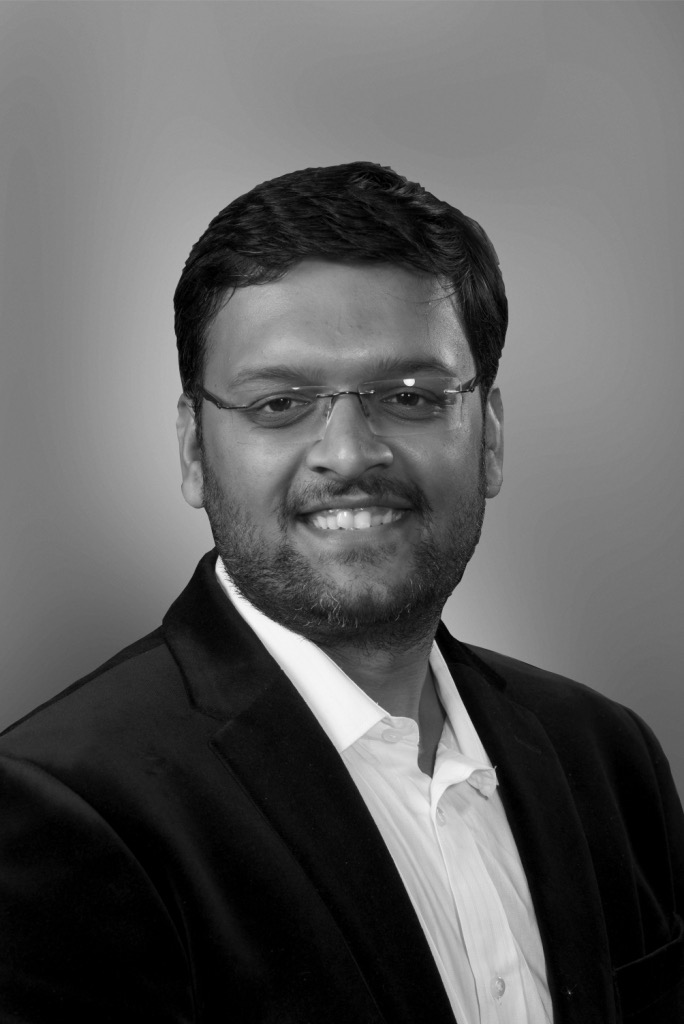
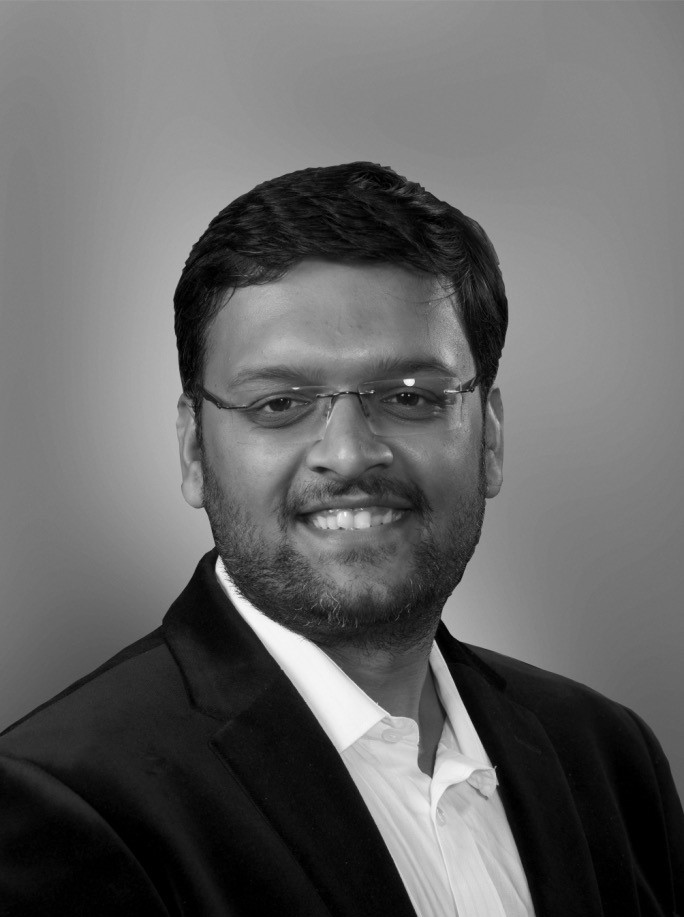
about us fixed

diff --git a/src/Pages/About.jsx b/src/Pages/About.jsx
@@ -1,30 +1,26 @@
 import React from "react";
 import Navbar from "../Component/Navbar";
 import Footer from "../Component/Footer";
-import founder1 from "../Images/founder1.jpeg"
-import founder2 from "../Images/founder2.jpeg"
-import founder3 from "../Images/founder3.jpeg"
-
+import founder1 from "../Images/founder1.jpeg";
+import founder2 from "../Images/founder2.jpeg";
+import founder3 from "../Images/founder3.jpeg";
 
 const About = () => {
   const people = [
     {
       name: "Prateek Khare",
       role: "Director",
-      imageUrl:
-        founder1,
+      imageUrl: founder1,
     },
     {
       name: "Leonard Krasner",
       role: "Director",
-      imageUrl:
-      founder3,
+      imageUrl: founder3,
     },
     {
       name: "Deviprasad Kalaikar",
       role: "Director",
-      imageUrl:
-      founder2,
+      imageUrl: founder2,
     },
   ];
 
@@ -41,23 +37,29 @@ const About = () => {
               We at Exemplar, are a group of high end designers and interior
               architects who are constantly upgrading and improving the industry
               design standards in terms of beauty, space optimisation and
-              functionality. We are the world’s first organisation that designs
-              space using multiple psychological researches to optimise the
-              productivity output of the end user. We are the fastest growing
-              interior turnkey solution providers of the country and are
-              dedicated to provide our customers the best service, quality and
-              ensure that the design is given utmost attention to cater to every
-              client and their space needs. It is our constant goal to bridge
-              the gap of the industry, hence our dedicated project management
-              team is focused at maintaining a high level of technical process
-              adherence and ensuring timely delivery. We focus on effective risk
+              functionality.
+            </p>
+            <p className="mt-8 text-lg leading-8 text-gray-600  text-justify">
+              We are the world’s first organisation that designs space using
+              multiple psychological researches to optimise the productivity
+              output of the end user. We are the fastest growing interior
+              turnkey solution providers of the country and are dedicated to
+              provide our customers the best service, quality and ensure that
+              the design is given utmost attention to cater to every client and
+              their space needs. 
+            </p>
+            <p className="mt-8 text-lg leading-8 text-gray-600  text-justify">
+            It is our constant goal to bridge the gap of
+              the industry, hence our dedicated project management team is
+              focused at maintaining a high level of technical process adherence
+              and ensuring timely delivery. We focus on effective risk
               assessments and meticulous reporting on all the projects ensuring
               high quality serviceability and customer experience. We have the
               skills and knowledge to help you reach your design objectives,
               whether you want to change the aesthetic of your home, workplace,
               or a commercial facility. At Exemplar, we are committed to giving
               our clients the best service and creative solutions that go above
-              and beyond what they anticipate. 
+              and beyond what they anticipate.
             </p>
           </div>
         </div>
@@ -72,13 +74,11 @@ const About = () => {
               we do.
             </p>
           </div>
-          <ul
-            className="mx-auto mt-20 grid max-w-2xl grid-cols-1 gap-x-8 gap-y-16 sm:grid-cols-2 lg:mx-0 lg:max-w-none lg:grid-cols-3"
-          >
+          <ul className="mx-auto mt-20 grid max-w-2xl grid-cols-1 gap-x-8 gap-y-16 sm:grid-cols-2 lg:mx-0 lg:max-w-none lg:grid-cols-3">
             {people.map((person) => (
               <li key={person.name}>
                 <img
-                  className="mx-auto h-56 w-56 rounded-full"
+                  className="mx-auto h-56 w-56 object-cover rounded-full"
                   src={person.imageUrl}
                   alt=""
                 />
